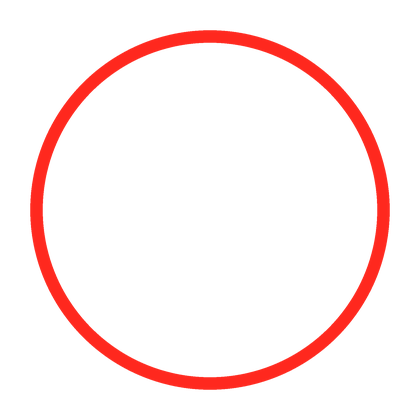
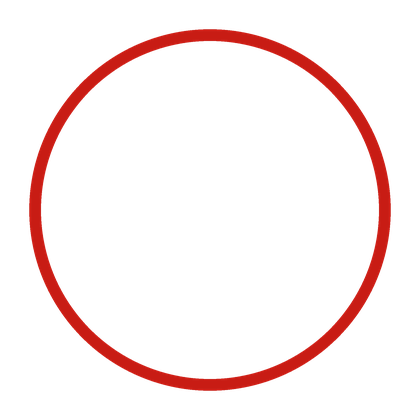
Unity HUD: smaller, lighter vintage dials (ivory faces, chrome bezels, red needles)
Claude-Session: https://claude.ai/code/session_01KGiRA1rg8KY8QPAVLBfUgz

Changed region(s): [[0.0619, 0.0619, 0.9286, 0.9286]]

diff --git a/tools/make_gauges.py b/tools/make_gauges.py
@@ -1,6 +1,5 @@
 #!/usr/bin/env python3
-"""Draws the old-school analog HUD dials for the Unity game (amber needle gauges like the
-street racers of the 2000s): unity_assets/gen/gauge_speed.png (0..280 km/h),
+"""Draws the old-school analog HUD dials for the Unity game (light vintage needle gauges: ivory faces, chrome bezels, red needles): unity_assets/gen/gauge_speed.png (0..280 km/h),
 gauge_tach.png (0..9 x1000 rpm), gauge_needle.png (points up), gauge_redarc.png (full red
 ring; the HUD shows only the part past the car's redline).
 Angles: value 0 sits at 225 degrees (lower left), full scale at -45 (lower right), clockwise."""
@@ -10,6 +9,7 @@ from PIL import Image, ImageDraw, ImageFont, ImageFilter
 ROOT = os.path.join(os.path.dirname(os.path.abspath(__file__)), "..")
 OUT = os.path.join(ROOT, "unity_assets", "gen")
 FONT = os.path.join(ROOT, "fonts", "russoone_RussoOne-Regular.ttf")
+FONT2 = os.path.join(ROOT, "fonts", "rajdhani_Rajdhani-Bold.ttf")
 SS = 4                      # supersampling
 AMBER = (255, 176, 32)
 AMBER_HI = (255, 214, 110)
@@ -18,72 +18,68 @@ def ang(f): return math.radians(225 - 270 * f)
 def pt(c, r, a): return (c + r * math.cos(a), c - r * math.sin(a))
 
 def face(size, majors, minor_per, label, numsize, unit, red_from=None):
+    """Light vintage dial: thin chrome bezel, ivory face that lets a little of the street through,
+    dark numerals and ticks, a fine double ring like a 60s/70s instrument."""
     n = size * SS; c = n / 2; R = n / 2
     im = Image.new("RGBA", (n, n), (0, 0, 0, 0))
     d = ImageDraw.Draw(im)
-    # soft drop shadow, chrome bezel, smoked face
-    d.ellipse([c - R * 0.985, c - R * 0.985, c + R * 0.985, c + R * 0.985], fill=(0, 0, 0, 150))
-    for i in range(60):          # bezel: brushed metal gradient ring
-        t = i / 59
-        r = R * (0.97 - 0.07 * t)
-        g = int(70 + 150 * (0.5 + 0.5 * math.cos(t * math.pi * 2 + 0.6)))
-        d.ellipse([c - r, c - r, c + r, c + r], fill=(g, int(g * 0.93), int(g * 0.8), 255))
-    r0 = R * 0.895
-    d.ellipse([c - r0, c - r0, c + r0, c + r0], fill=(8, 8, 10, 255))
-    for i in range(40):          # face: dark glass, a little lighter in the middle
-        t = i / 39
-        r = r0 * (1 - 0.55 * t)
-        v = int(10 + 22 * t)
-        d.ellipse([c - r, c - r, c + r, c + r], fill=(v, int(v * 0.95), int(v * 0.9), 250))
-    # amber inner ring
-    r1 = R * 0.86
-    d.ellipse([c - r1, c - r1, c + r1, c + r1], outline=AMBER + (255,), width=int(n * 0.006))
+    d.ellipse([c - R * 0.985, c - R * 0.985, c + R * 0.985, c + R * 0.985], fill=(0, 0, 0, 110))
+    for i in range(50):          # slim polished chrome bezel
+        t = i / 49
+        r = R * (0.965 - 0.045 * t)
+        g = int(120 + 125 * (0.5 + 0.5 * math.cos(t * math.pi * 2 + 0.4)))
+        d.ellipse([c - r, c - r, c + r, c + r], fill=(g, g, int(g * 0.97), 255))
+    r0 = R * 0.915
+    for i in range(50):          # ivory face, a touch darker at the rim, slightly see-through
+        t = i / 49
+        r = r0 * (1 - 0.75 * t)
+        d.ellipse([c - r, c - r, c + r, c + r], fill=(int(214 + 30 * t), int(206 + 30 * t), int(184 + 34 * t), 224))
+    INK = (38, 34, 30)
+    r1 = R * 0.875
+    d.ellipse([c - r1, c - r1, c + r1, c + r1], outline=INK + (255,), width=max(1, int(n * 0.004)))
+    r2 = R * 0.48
+    d.ellipse([c - r2, c - r2, c + r2, c + r2], outline=INK + (90,), width=max(1, int(n * 0.003)))
     steps = (len(majors) - 1) * minor_per
     for i in range(steps + 1):
         f = i / steps; a = ang(f); major = i % minor_per == 0
         val = majors[0] + (majors[-1] - majors[0]) * f
-        col = (255, 60, 40) if red_from is not None and val >= red_from - 1e-6 else (AMBER_HI if major else AMBER)
-        d.line([pt(c, R * (0.84 if True else 0), a), pt(c, R * (0.735 if major else 0.79), a)], fill=col + (255,), width=int(n * (0.013 if major else 0.006)))
-    font = ImageFont.truetype(FONT, int(n * numsize))
+        col = (190, 30, 22) if red_from is not None and val >= red_from - 1e-6 else INK
+        d.line([pt(c, R * 0.86, a), pt(c, R * (0.765 if major else 0.81), a)], fill=col + (255,), width=int(n * (0.011 if major else 0.005)))
+    font = ImageFont.truetype(FONT2, int(n * numsize))
     for k, m in enumerate(majors):
         f = k / (len(majors) - 1); a = ang(f)
-        x, y = pt(c, R * 0.615, a)
-        col = (255, 80, 60) if red_from is not None and m >= red_from else AMBER_HI
-        d.text((x, y), str(m), font=font, fill=col + (255,), anchor="mm")
-    uf = ImageFont.truetype(FONT, int(n * 0.062))
-    d.text((c, c - R * 0.30), unit, font=uf, fill=AMBER + (255,), anchor="mm")
-    if label:
-        d.text((c, c + R * 0.74), label, font=ImageFont.truetype(FONT, int(n * 0.05)), fill=(200, 200, 205, 255), anchor="mm")
+        x, y = pt(c, R * 0.655, a)
+        d.text((x, y), str(m), font=font, fill=INK + (255,), anchor="mm")
+    d.text((c, c - R * 0.27), unit, font=ImageFont.truetype(FONT2, int(n * 0.058)), fill=(150, 40, 25, 255), anchor="mm")
     # glass shine across the top
     shine = Image.new("RGBA", (n, n), (0, 0, 0, 0))
     sd = ImageDraw.Draw(shine)
-    sd.pieslice([c - r0, c - r0, c + r0, c + r0], 200, 340, fill=(255, 255, 255, 26))
+    sd.pieslice([c - r0, c - r0, c + r0, c + r0], 200, 340, fill=(255, 255, 255, 46))
     sd.ellipse([c - r0 * 1.3, c - r0 * 0.55, c + r0 * 1.3, c + r0 * 2.2], fill=(0, 0, 0, 0))
     im = Image.alpha_composite(im, shine.filter(ImageFilter.GaussianBlur(n * 0.004)))
     return im.resize((size, size), Image.LANCZOS)
 
 def needle(w, h):
     n = SS; im = Image.new("RGBA", (w * n, h * n), (0, 0, 0, 0)); d = ImageDraw.Draw(im)
-    cx = w * n / 2
-    # pivot at the image centre; the pointer goes up, a short tail goes down
-    d.polygon([(cx, h * n * 0.03), (cx + w * n * 0.16, h * n * 0.5), (cx + w * n * 0.2, h * n * 0.62), (cx - w * n * 0.2, h * n * 0.62), (cx - w * n * 0.16, h * n * 0.5)], fill=(255, 70, 30, 255))
-    d.polygon([(cx, h * n * 0.03), (cx + w * n * 0.05, h * n * 0.5), (cx - w * n * 0.05, h * n * 0.5)], fill=(255, 190, 150, 255))
-    r = w * n * 0.5
-    d.ellipse([cx - r, h * n / 2 - r, cx + r, h * n / 2 + r], fill=(30, 30, 34, 255), outline=(170, 170, 175, 255), width=int(n * 2))
-    r2 = r * 0.45
-    d.ellipse([cx - r2, h * n / 2 - r2, cx + r2, h * n / 2 + r2], fill=(120, 120, 126, 255))
+    cx = w * n / 2; H = h * n; W = w * n
+    # pivot at the image centre; a slim red pointer goes up, a short counterweight goes down
+    d.polygon([(cx, H * 0.04), (cx + W * 0.10, H * 0.5), (cx + W * 0.13, H * 0.60), (cx - W * 0.13, H * 0.60), (cx - W * 0.10, H * 0.5)], fill=(200, 28, 20, 255))
+    r = W * 0.42
+    for i in range(20):
+        t = i / 19; rr = r * (1 - 0.9 * t); g = int(90 + 150 * t)
+        d.ellipse([cx - rr, H / 2 - rr, cx + rr, H / 2 + rr], fill=(g, g, g, 255))
     return im.resize((w, h), Image.LANCZOS)
 
 def redarc(size):
     n = size * SS; c = n / 2; R = n / 2
     im = Image.new("RGBA", (n, n), (0, 0, 0, 0)); d = ImageDraw.Draw(im)
-    d.ellipse([c - R * 0.855, c - R * 0.855, c + R * 0.855, c + R * 0.855], outline=(255, 40, 30, 255), width=int(n * 0.03))
+    d.ellipse([c - R * 0.86, c - R * 0.86, c + R * 0.86, c + R * 0.86], outline=(200, 28, 20, 255), width=int(n * 0.028))
     return im.resize((size, size), Image.LANCZOS)
 
 if __name__ == "__main__":
     os.makedirs(OUT, exist_ok=True)
-    face(640, list(range(0, 281, 20)), 2, "", 0.058, "KM/H").save(os.path.join(OUT, "gauge_speed.png"))
-    face(420, list(range(0, 10)), 5, "", 0.085, "RPM x1000").save(os.path.join(OUT, "gauge_tach.png"))
+    face(640, list(range(0, 281, 20)), 2, "", 0.07, "KM/H").save(os.path.join(OUT, "gauge_speed.png"))
+    face(420, list(range(0, 10)), 5, "", 0.105, "RPM x1000").save(os.path.join(OUT, "gauge_tach.png"))
     needle(64, 512).save(os.path.join(OUT, "gauge_needle.png"))
     redarc(420).save(os.path.join(OUT, "gauge_redarc.png"))
     print("gauges written to", OUT)

diff --git a/unity/Assets/Game/Runtime/UI/Hud.cs b/unity/Assets/Game/Runtime/UI/Hud.cs
@@ -49,30 +49,31 @@ namespace HMD
             map = gameObject.AddComponent<Minimap>();
             map.Build(root, player);
 
-            // old-school analog dials bottom-right (above the pedals): amber speedometer with a needle,
+            // light vintage analog dials bottom-right (above the pedals): ivory speedometer with a needle,
             // a smaller rev counter up-left of it, the gear in a round badge and a small digital speed
-            var sp = UIKit.Rect("Speedo", root, new Vector2(1, 0), new Vector2(1, 0), new Vector2(-30, 345), new Vector2(380, 380));
+            var sp = UIKit.Rect("Speedo", root, new Vector2(1, 0), new Vector2(1, 0), new Vector2(-35, 350), new Vector2(320, 320));
             var mid = new Vector2(0.5f, 0.5f);
-            UIKit.Img("SpeedFace", sp, mid, mid, Vector2.zero, new Vector2(380, 380), Color.white, GaugeSprite("gauge_speed"));
-            var tach = UIKit.Rect("Tach", sp, mid, mid, new Vector2(-238, 125), new Vector2(236, 236));
-            UIKit.Img("TachFace", tach, mid, mid, Vector2.zero, new Vector2(236, 236), Color.white, GaugeSprite("gauge_tach"));
+            UIKit.Img("SpeedFace", sp, mid, mid, Vector2.zero, new Vector2(320, 320), Color.white, GaugeSprite("gauge_speed"));
+            var tach = UIKit.Rect("Tach", sp, mid, mid, new Vector2(-197, 108), new Vector2(196, 196));
+            UIKit.Img("TachFace", tach, mid, mid, Vector2.zero, new Vector2(196, 196), Color.white, GaugeSprite("gauge_tach"));
             // red zone: the part of the ring past this car's redline (scale 0..9000 rpm over 270 degrees)
             float redAngle = 225f - 270f * Mathf.Clamp01(c.spec.rpmRedline / TachMax);
-            var red = UIKit.Img("RedZone", tach, mid, mid, Vector2.zero, new Vector2(236, 236), Color.white, GaugeSprite("gauge_redarc"));
+            var red = UIKit.Img("RedZone", tach, mid, mid, Vector2.zero, new Vector2(196, 196), Color.white, GaugeSprite("gauge_redarc"));
             red.type = Image.Type.Filled; red.fillMethod = Image.FillMethod.Radial360;
             red.fillOrigin = (int)Image.Origin360.Top; red.fillClockwise = true;
             red.fillAmount = (redAngle + 45f) / 360f;
             red.rectTransform.localEulerAngles = new Vector3(0, 0, redAngle - 90f);
             var needleSprite = GaugeSprite("gauge_needle");
-            revNeedle = UIKit.Img("RevNeedle", tach, mid, mid, Vector2.zero, new Vector2(24, 189), Color.white, needleSprite).rectTransform;
-            speedNeedle = UIKit.Img("SpeedNeedle", sp, mid, mid, Vector2.zero, new Vector2(38, 304), Color.white, needleSprite).rectTransform;
-            var amber = new Color(1f, 0.69f, 0.13f);
-            var box = UIKit.Img("SpeedBox", sp, mid, mid, new Vector2(0, -110), new Vector2(128, 52), new Color(0, 0, 0, 0.86f), UIKit.RoundedSprite);
+            revNeedle = UIKit.Img("RevNeedle", tach, mid, mid, Vector2.zero, new Vector2(20, 157), Color.white, needleSprite).rectTransform;
+            speedNeedle = UIKit.Img("SpeedNeedle", sp, mid, mid, Vector2.zero, new Vector2(32, 256), Color.white, needleSprite).rectTransform;
+            Color ivory = new Color(0.93f, 0.9f, 0.82f), ink = new Color(0.15f, 0.13f, 0.12f), chrome = new Color(0.82f, 0.82f, 0.82f);
+            var box = UIKit.Img("SpeedBox", sp, mid, mid, new Vector2(0, -91), new Vector2(104, 42), new Color(0.09f, 0.08f, 0.08f, 0.92f), UIKit.RoundedSprite);
             box.type = Image.Type.Sliced;
-            speed = UIKit.Label("Speed", box.transform, mid, mid, Vector2.zero, new Vector2(128, 52), "0", 44, new Color(1f, 0.78f, 0.24f), TextAnchor.MiddleCenter, Res.TitleFont);
-            var gb = UIKit.Img("GearBadge", sp, mid, mid, new Vector2(-168, -67), new Vector2(88, 88), amber, UIKit.CircleSprite);
-            UIKit.Img("GearInner", gb.transform, mid, mid, Vector2.zero, new Vector2(78, 78), new Color(0.04f, 0.04f, 0.05f), UIKit.CircleSprite);
-            gear = UIKit.Label("Gear", gb.transform, mid, mid, Vector2.zero, new Vector2(88, 88), "1", 54, new Color(1f, 0.78f, 0.24f), TextAnchor.MiddleCenter, Res.TitleFont);
+            speed = UIKit.Label("Speed", box.transform, mid, mid, Vector2.zero, new Vector2(104, 42), "0", 36, new Color(1f, 0.93f, 0.78f), TextAnchor.MiddleCenter, Res.TitleFont);
+            var gb = UIKit.Img("GearBadge", sp, mid, mid, new Vector2(-141, -56), new Vector2(72, 72), chrome, UIKit.CircleSprite);
+            UIKit.Img("GearInner", gb.transform, mid, mid, Vector2.zero, new Vector2(64, 64), ivory, UIKit.CircleSprite);
+            gear = UIKit.Label("Gear", gb.transform, mid, mid, Vector2.zero, new Vector2(72, 72), "1", 46, ink, TextAnchor.MiddleCenter, Res.TitleFont);
+            gear.GetComponent<Shadow>().enabled = false;
             // nitro bar under the speedo
             var nb = UIKit.Img("NitroBg", root, new Vector2(1, 0), new Vector2(1, 0), new Vector2(-60, 330), new Vector2(290, 16), new Color(0, 0, 0, 0.5f), UIKit.RoundedSprite);
             nb.type = Image.Type.Sliced;
